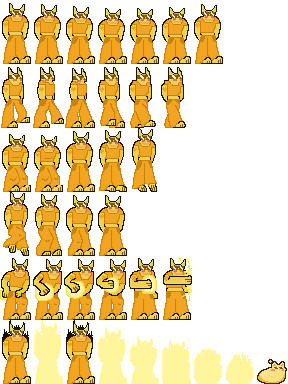
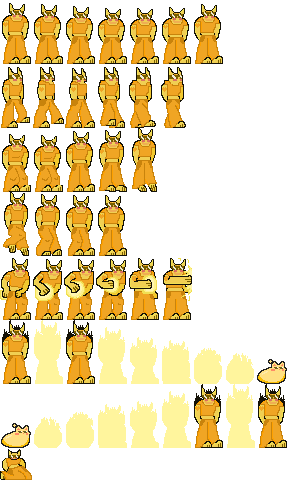
fixing something

diff --git a/src/World/Dough.cpp b/src/World/Dough.cpp
@@ -24,18 +24,47 @@ Textures::ID toTextureID(Dough::Type type)
 	return Textures::Dough1;
 }
 
+Textures::ID toTextureBigID(Dough::Type type)
+{
+	switch (type)
+	{
+		case Dough::Dough1:
+			return Textures::BigDough1;
+		case Dough::Dough2:
+			return Textures::BigDough2;
+
+	}
+	return Textures::Dough1;
+}
+
+Textures::ID toTextureFireID(Dough::Type type)
+{
+	switch (type)
+	{
+		case Dough::Dough1:
+			return Textures::FireBigDough1;
+		case Dough::Dough2:
+			return Textures::FireBigDough2;
+
+	}
+	return Textures::Dough1;
+}
+
 Dough::Dough(Type type)
 : nType(type)
 , nGrowUp(Small)
 , Entity(TextureHolder::getInstance().get(toTextureID(type)))
-, nBig(TextureHolder::getInstance().get(Textures::BigDough))
-, nFireBig(TextureHolder::getInstance().get(Textures::FireBigDough))
+, nBig(TextureHolder::getInstance().get(toTextureBigID(type)))
+, nFireBig(TextureHolder::getInstance().get(toTextureFireID(type)))
 , stateJump(0)
 , nCoinsCount(0)
 , nScore(0)
 , nMotionless(false)
 , nPipe(nullptr)
 {
+	centerOrigin(nBig);
+	centerOrigin(nFireBig);
+
 	setUpEntity();
 	setAnimationState(State::Idle);
 }
@@ -146,49 +175,37 @@ void Dough::setUpEntity()
 	nJumpVelocity2 = config["JumpVelocity2"];
 	nHitPoints = config["HitPoints"];
 
-	switch (nType)
-	{
-	case Dough1:
-		addAnimationState(State::Idle, 96, 12, sf::seconds(1.f), sf::Vector2i(32, 32), true);
-		addAnimationState(State::Walk, 0, 4, sf::seconds(0.5f), sf::Vector2i(32, 32), true);
-		addAnimationState(State::Jump, 32, 5, sf::seconds(0.4f), sf::Vector2i(32, 32), false);
-		addAnimationState(State::DoubleJump, 32, 5, sf::seconds(0.4f), sf::Vector2i(32, 32), false);
-		addAnimationState(State::Fall, 64, 5, sf::seconds(0.4f), sf::Vector2i(32, 32), false);
-		addAnimationState(State::Hit, 128, 9, sf::seconds(0.3f), sf::Vector2i(32, 32), true);
-		break;
-	case Dough2:
-		addAnimationState(State::Idle, 96, 11, sf::seconds(1.f), sf::Vector2i(32, 32), true);
-		addAnimationState(State::Walk, 160, 12, sf::seconds(0.6f), sf::Vector2i(32, 32), true);
-		addAnimationState(State::Jump, 128, 1, sf::seconds(0.6f), sf::Vector2i(32, 32), false);
-		addAnimationState(State::DoubleJump, 0, 6, sf::seconds(0.1f), sf::Vector2i(32, 32), true);
-		addAnimationState(State::Fall, 32, 1, sf::seconds(0.6f), sf::Vector2i(32, 32), false);
-		addAnimationState(State::Hit, 64, 7, sf::seconds(0.3f), sf::Vector2i(32, 32), true);
-		break;
-	
-	default:
 
-		break;
-	}
-	centerOrigin(nBig);
+	// dough
+	addAnimationState(State::Idle, 96, 12, sf::seconds(1.f), sf::Vector2i(32, 32), true);
+	addAnimationState(State::Walk, 0, 4, sf::seconds(0.5f), sf::Vector2i(32, 32), true);
+	addAnimationState(State::Jump, 32, 5, sf::seconds(0.35f), sf::Vector2i(32, 32), false);
+	addAnimationState(State::DoubleJump, 32, 5, sf::seconds(0.35f), sf::Vector2i(32, 32), false);
+	addAnimationState(State::Fall, 64, 5, sf::seconds(0.35f), sf::Vector2i(32, 32), false);
+	addAnimationState(State::Hit, 128, 9, sf::seconds(0.3f), sf::Vector2i(32, 32), true);
+
+
+	// Big dough
 	nBig.addAnimationState(State::Idle, 0, 7, sf::seconds(0.7f), sf::Vector2i(32, 64), true);
-	nBig.addAnimationState(State::Walk, 64, 8, sf::seconds(0.5f), sf::Vector2i(32, 64), true);
-	nBig.addAnimationState(State::Jump, 128, 4, sf::seconds(0.4f), sf::Vector2i(32, 64), false);
+	nBig.addAnimationState(State::Walk, 128, 4, sf::seconds(0.5f), sf::Vector2i(32, 64), true);
+	nBig.addAnimationState(State::Jump, 64, 8, sf::seconds(0.4f), sf::Vector2i(32, 64), false);
 	nBig.addAnimationState(State::DoubleJump, 128, 4, sf::seconds(0.4f), sf::Vector2i(32, 64), false);
-	// nBig.addAnimationState(State::Sit, 180, 1, sf::seconds(0.5f), sf::Vector2i(32, 64), true);
 	nBig.addAnimationState(State::Fall, 192, 5, sf::seconds(0.5f), sf::Vector2i(32, 64), false);
-	nBig.addAnimationState(State::Appear, 256, 8, sf::seconds(0.7f), sf::Vector2i(32, 64), false);
+	nBig.addAnimationState(State::Appear, 320, 8, sf::seconds(0.7f), sf::Vector2i(32, 64), false);
 	nBig.addAnimationState(State::Disappear, 256, 8, sf::seconds(0.7f), sf::Vector2i(32, 64), false);	
+	nBig.addAnimationState(State::Sit, 384, 1, sf::seconds(0.5f), sf::Vector2i(32, 32), true);
 
-	centerOrigin(nFireBig);
+
+	// FireBig dough
 	nFireBig.addAnimationState(State::Idle, 0, 7, sf::seconds(0.7f), sf::Vector2i(32, 64), true);
 	nFireBig.addAnimationState(State::Walk, 64, 6, sf::seconds(0.5f), sf::Vector2i(32, 64), true);
 	nFireBig.addAnimationState(State::Jump, 128, 5, sf::seconds(0.3f), sf::Vector2i(32, 64), false);
 	nFireBig.addAnimationState(State::DoubleJump, 128, 5, sf::seconds(0.3f), sf::Vector2i(32, 64), false);
-	// nFireBig.addAnimationState(State::Sit, 180, 1, sf::seconds(0.5f), sf::Vector2i(32, 64), true);
 	nFireBig.addAnimationState(State::Fall, 192, 1, sf::seconds(0.5f), sf::Vector2i(32, 64), false);	
 	nFireBig.addAnimationState(State::Fire, 256, 6, sf::seconds(0.4f), sf::Vector2i(32, 64), false);
-	nFireBig.addAnimationState(State::Appear, 320, 8, sf::seconds(0.7f), sf::Vector2i(32, 64), false);
+	nFireBig.addAnimationState(State::Appear, 384, 8, sf::seconds(0.7f), sf::Vector2i(32, 64), false);
 	nFireBig.addAnimationState(State::Disappear, 320, 8, sf::seconds(0.7f), sf::Vector2i(32, 64), false);
+	nFireBig.addAnimationState(State::Sit, 448, 1, sf::seconds(0.5f), sf::Vector2i(32, 32), true);
 }
 
 void Dough::jump()
@@ -438,8 +455,8 @@ void Dough::growUPBig()
 	addHitPoints(1);
 	if (nGrowUp == Big || nGrowUp == FireBig) return;
 	nGrowUp = Big;
-	nCurrentState = State::Idle;
-	nBig.setAnimationState(State::Idle);
+	nCurrentState = State::Appear;
+	nBig.setAnimationState(State::Appear);
 }
 
 void Dough::growUPFireBig()
@@ -481,7 +498,7 @@ void Dough::fire(CommandQueue& commands)
 	fire.action = [this] (SceneNode& node, sf::Time dt)
 	{
 		std::unique_ptr<Projectile> fireBall(new Projectile(Item::FireBall, getPosition() - sf::Vector2f(0.f, 10.f)));
-		if (nFireBig.getCurrentAnimationID() == State::Sit) fireBall->move(0.f, 20.f);
+		if (nFireBig.getCurrentAnimationID() == State::Sit) fireBall->move(0.f, 10.f);
 		fireBall->setTargetCategory(Category::Enemy);
 		fireBall->setSpeed(312.f);
 		if (nDirection) fireBall->setTargetDirection(sf::Vector2f(-1.f, 0.f));

diff --git a/src/Game.cpp b/src/Game.cpp
@@ -252,9 +252,11 @@ void Game::loadTextures() {
 	TextureHolder::getInstance().load(Textures::ID::HandSprite, "res/UI/handSprite.png");
 	
 	TextureHolder::getInstance().load(Textures::Dough1, "res/Dough/dough.png");
-	TextureHolder::getInstance().load(Textures::Dough2, "res/Dough/tile001.png");
-	TextureHolder::getInstance().load(Textures::BigDough, "res/Dough/big_dough.png");
-	TextureHolder::getInstance().load(Textures::FireBigDough, "res/Dough/fire_dough.png");
+	TextureHolder::getInstance().load(Textures::Dough2, "res/Dough/dough1.png");
+	TextureHolder::getInstance().load(Textures::BigDough1, "res/Dough/big_dough.png");
+	TextureHolder::getInstance().load(Textures::BigDough2, "res/Dough/big_dough1.png");
+	TextureHolder::getInstance().load(Textures::FireBigDough1, "res/Dough/fire_dough.png");
+	TextureHolder::getInstance().load(Textures::FireBigDough2, "res/Dough/fire_dough1.png");
 
 	//Enemy
 	TextureHolder::getInstance().load(Textures::Ghost, "res/Enemy/Ghost/Ghost.png");
@@ -293,12 +295,16 @@ void Game::loadTextures() {
 	//Item
 	TextureHolder::getInstance().load(Textures::Coin, "res/Item/Coin.png");
 	TextureHolder::getInstance().load(Textures::CoinAnimation, "res/Item/CoinAnimation.png");
-	TextureHolder::getInstance().load(Textures::Heart, "res/Item/Heart.png");
-	TextureHolder::getInstance().load(Textures::HeartAnimation, "res/Item/StarAnimation.png");
+	TextureHolder::getInstance().load(Textures::Heart, "res/Item/life.png");
+	TextureHolder::getInstance().load(Textures::HeartAnimation, "res/Item/lifeAni.png");
 	TextureHolder::getInstance().load(Textures::FireBall, "res/Item/Fireball.png");
-	TextureHolder::getInstance().load(Textures::HeartIcon, "res/Hub/HeartIcon.png");
+	TextureHolder::getInstance().load(Textures::BigItem, "res/Item/big_potion.png");
+	TextureHolder::getInstance().load(Textures::BigItemAnimation, "res/Item/BigPotionAni.png");
+	TextureHolder::getInstance().load(Textures::FireBigItem, "res/Item/fire_potion.png");
+	TextureHolder::getInstance().load(Textures::FireBigItemAnimation, "res/Item/FirePotionAni.png");
 
 	//Hub
+	TextureHolder::getInstance().load(Textures::HeartIcon, "res/Hub/HeartIcon.png");
 	TextureHolder::getInstance().load(Textures::CoinIcon, "res/Hub/CoinIcon.png");
 	TextureHolder::getInstance().load(Textures::ClockIcon, "res/Hub/ClockIcon.png");
 	TextureHolder::getInstance().load(Textures::WhiteText, "res/Text/WhiteText.png");

diff --git a/src/World/LuckyBlock.cpp b/src/World/LuckyBlock.cpp
@@ -46,6 +46,7 @@ void LuckyBlock::updateCurrent(sf::Time dt, CommandQueue& commands)
         item.first = nItems.back();
         item.second = ItemFactory::createAppearAnimation(nItems.back());
         nQueueItems.push_back(std::move(item));
+        // int fy = nQueueItems.back().second->getGlobalBounds().height / 2;
         nQueueItems.back().second->setPosition(0, -16);
         nItems.pop_back();
         nIsDropping = false;
@@ -60,15 +61,17 @@ void LuckyBlock::updateCurrent(sf::Time dt, CommandQueue& commands)
     {
         if ((*it).second->isFinished())
         {
+            int fy = (*it).second->getGlobalBounds().height / 4;
             Command command;
             command.category = Category::ItemScene;
-            command.action = [this, it, &commands] (SceneNode& graph, sf::Time)
+            command.action = [this, it, &commands, fy] (SceneNode& graph, sf::Time)
             {
                 if ((*it).first == Item::Coin)
                 {
                     return;
                 }
-                std::unique_ptr<Item> item = ItemFactory::createItem((*it).first, getWorldPosition() + sf::Vector2f(0.f, -32.f));
+                
+                std::unique_ptr<Item> item = ItemFactory::createItem((*it).first, getWorldPosition() + sf::Vector2f(0.f, - 16 - fy));
                 graph.attachChild(std::move(item));
             };
             commands.push(command);

diff --git a/src/World/ItemFactory.cpp b/src/World/ItemFactory.cpp
@@ -36,7 +36,17 @@ std::unique_ptr<Animation> ItemFactory::createAppearAnimation(Item::Type type)
             return animation;
         case Item::Heart:
             animation = std::make_unique<Animation>(TextureHolder::getInstance().get(Textures::HeartAnimation));
-            animation->addAnimationState(0, 0, 4, sf::seconds(0.6), sf::Vector2i(25, 64), false);
+            animation->addAnimationState(0, 0, 4, sf::seconds(0.6), sf::Vector2i(15, 60), false);
+            animation->setAnimationState(0);
+            return animation;
+        case Item::Big:
+            animation = std::make_unique<Animation>(TextureHolder::getInstance().get(Textures::BigItemAnimation));
+            animation->addAnimationState(0, 0, 4, sf::seconds(0.6), sf::Vector2i(24, 78), false);
+            animation->setAnimationState(0);
+            return animation;
+        case Item::FireBig:
+            animation = std::make_unique<Animation>(TextureHolder::getInstance().get(Textures::FireBigItemAnimation));
+            animation->addAnimationState(0, 0, 4, sf::seconds(0.6), sf::Vector2i(16, 101), false);
             animation->setAnimationState(0);
             return animation;
         default:

diff --git a/src/World/World.cpp b/src/World/World.cpp
@@ -317,11 +317,26 @@ void World::loadMap(std::string level)
 	}
 	
 	// Dough
-	std::unique_ptr<Dough> leader(new Dough(Dough::Dough1));
+	std::unique_ptr<Dough> leader(new Dough(Dough::Dough2));
 	nPlayerDough = leader.get();
 	nPlayerDough->setPosition(nSpawnPosition);
 	nPlayerDough->setCheckPoint(nSpawnPosition);
 	nSceneLayers[Player]->attachChild(std::move(leader));
+
+	// Slide
+
+	for (auto& slide : config["SlideBlock"])
+	{
+		sf::Vector2f position = toVector2<float>(slide["Position"]);
+		std::unique_ptr<SlideBlock> slideBlock(new SlideBlock(Block::SlideBlock, position));
+
+		for (auto& pa : slide["Offset"])
+		{
+			slideBlock->addPath(toVector2<float>(pa));
+		}
+
+		nSceneLayers[Map]->attachChild(std::move(slideBlock));
+	}
 
 	// Pipes
 	for (auto& pipe : config["Pipes"])

diff --git a/src/World/SceneNode.cpp b/src/World/SceneNode.cpp
@@ -47,7 +47,7 @@ void SceneNode::updateChildren(sf::Time dt, CommandQueue& commands)
 {
 	for(Ptr& child : nChildren)
 	{
-		if (!checkInRange(child->getBoundingRect(), nRange)) continue;
+		if (!checkInRange(child->getBoundingRect(), nRange) && getCategory() != Category::Item) continue;
 		child->update(dt, commands);
 	}
 }
@@ -103,7 +103,7 @@ void SceneNode::onCommand(const Command& command, sf::Time dt)
 	// Command children
 	for(Ptr& child : nChildren)
 	{
-		if (!checkInRange(child->getBoundingRect(), nRange)) continue;
+		if (!checkInRange(child->getBoundingRect(), nRange) && getCategory() != Category::Item) continue;
 		child->onCommand(command, dt);
 	}
 }

diff --git a/src/World/Item.cpp b/src/World/Item.cpp
@@ -14,9 +14,9 @@ Textures::ID toTextureID(Item::Type type)
         case Item::Heart:
             return Textures::Heart;
         case Item::Big:
-            return Textures::Heart;
+            return Textures::BigItem;
         case Item::FireBig:
-            return Textures::Heart;
+            return Textures::FireBigItem;
         case Item::FireBall:
             return Textures::FireBall;
         default:

diff --git a/src/World/Entity.cpp b/src/World/Entity.cpp
@@ -201,7 +201,7 @@ void Entity::jump()
 		setAnimationState(State::Jump);
 
 	nOnGround = false;
-	setVelocity(nVelocity.x, -nJumpVelocity);
+	addVelocity(nVelocity.x, -nJumpVelocity);
 }
 
 void Entity::addAnimationState(State state, std::size_t row, std::size_t numFrames, sf::Time duration, sf::Vector2i frameSize, bool repeat)

diff --git a/src/World/FireBigItem.cpp b/src/World/FireBigItem.cpp
@@ -5,7 +5,7 @@
 FireBigItem::FireBigItem(Type type, sf::Vector2f position)
 : Item(type, position)
 {
-    nAnimation.addAnimationState(0, 0, 1, sf::seconds(0.5f), sf::Vector2i(32, 32), true);
+    nAnimation.addAnimationState(0, 0, 14, sf::seconds(0.7f), sf::Vector2i(16, 51), true);
     nAnimation.setAnimationState(0);
 }
 

diff --git a/src/World/Jumpyblock.cpp b/src/World/Jumpyblock.cpp
@@ -27,7 +27,9 @@ void JumpyBlock::handleTopCollision(Entity& entity)
     {
         entity.setVelocity(entity.getVelocity().x, 0.f);
     }
+    entity.jump();
     entity.addVelocity(0.f, -nJumpForce);
+
     if (entity.getCategory() & Category::PlayerDough)
     {
         Dough& dough = static_cast<Dough&>(entity);

diff --git a/src/World/BigItem.cpp b/src/World/BigItem.cpp
@@ -5,7 +5,7 @@
 BigItem::BigItem(Type type, sf::Vector2f position)
 : Item(type, position)
 {
-    nAnimation.addAnimationState(0, 0, 1, sf::seconds(0.5f), sf::Vector2i(32, 32), true);
+    nAnimation.addAnimationState(0, 0, 12, sf::seconds(0.7f), sf::Vector2i(24, 39), true);
     nAnimation.setAnimationState(0);
 }
 

diff --git a/src/World/Heart.cpp b/src/World/Heart.cpp
@@ -5,7 +5,7 @@
 Heart::Heart(Type type, sf::Vector2f position)
 : Item(type, position)
 {
-    nAnimation.addAnimationState(0, 0, 1, sf::seconds(0.5f), sf::Vector2i(32, 32), true);
+    nAnimation.addAnimationState(0, 0, 7, sf::seconds(0.7f), sf::Vector2i(15, 30), true);
     nAnimation.setAnimationState(0);
 }
 
